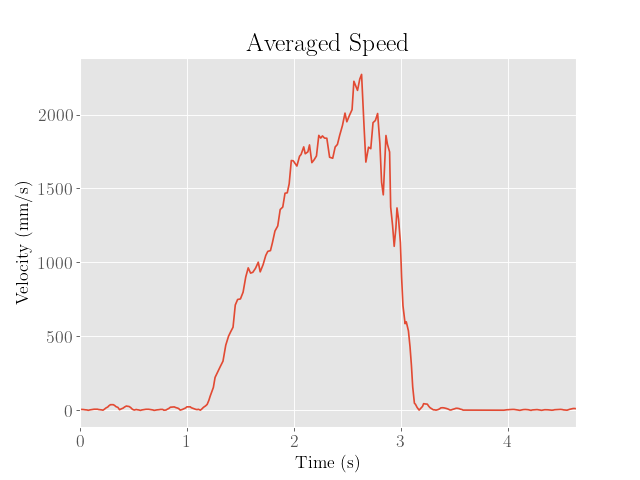
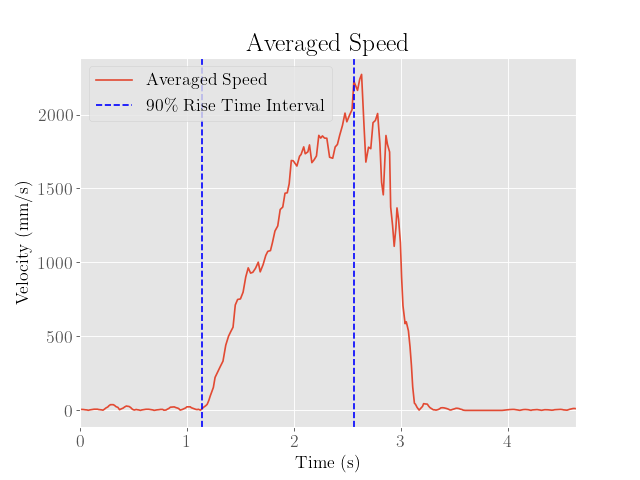
lab 7

diff --git a/docs/_pages/lab-7.md b/docs/_pages/lab-7.md
@@ -38,37 +38,235 @@ x \\
 \dot{x}
 \end{bmatrix}
 +
+u
 \begin{bmatrix}
-0
+0 \\
 \frac{1}{m}
 \end{bmatrix}
-u
 \end{align}$$
 
 Here, the drag $d$ and mass $m$ of the robot are not initially known, and must be measured via taking the step response of the system, which was done by sending a stream of constant PWM values to the motors.
 
 This was basically accomplished by setting the PWM values of the robot to the maximum values achieved using the position PID controller developed in Lab 6, which were around 126 after shifting and rescaling to account for the motor's PWM deadband:
 
-Youtube
+<iframe width="560" height="315" src="https://www.youtube.com/embed/9p3nJZ-9WFw" title="YouTube video player" frameborder="0" allow="accelerometer; autoplay; clipboard-write; encrypted-media; gyroscope; picture-in-picture; web-share" allowfullscreen></iframe>
 
-The ToF sensor data was then collected as the robot approached a wall, and the resulting sensor outputs, motor inputs were plotted. The velocity of the robot was also estimated by taking finite differences of the ToF data. 
+The ToF sensor data was then collected as the robot approached a wall, and the resulting sensor outputs, motor inputs were plotted. 
 
- ToF Data                                  | PWM Data                                  | Calculated Speed                              | Averaged Speed                                            |
-|:----------------------------------------:|:-----------------------------------------:|:---------------------------------------------:|:---------------------------------------------------------:|
-![Carpet ToF](/lab-7-assets/carpet_tof.png)|![Carpet PWM](/lab-7-assets/carpet_pwm.png)|![Carpet Speed](/lab-7-assets/carpet_speed.png)|![Carpet Average Speed](/lab-7-assets/carpet_avg_speed.png)|
+ ToF Data                                  | PWM Data                                  |
+|:----------------------------------------:|:-----------------------------------------:|
+![Carpet ToF](/lab-7-assets/carpet_tof.png)|![Carpet PWM](/lab-7-assets/carpet_pwm.png)|
 
+The speed of the robot was also estimated by taking finite differences of the ToF data. However, the ToF sensor data shows up as constant values over significant intervals of time, suggesting that the depth values are failing to update fast enough. 
+
+To ensure that the calculated finite differences do not vary too much, a moving average with a window size of 5 samples was taken on the ToF data in order to smooth the data out. Despite this, the calculated finite differences still demonstrated wild fluctuations, making it difficult to interpret the steady-state value.
+
+To fix this, a second moving average filter with a window size of 10 samples was taken on the finite differences, and the peak value was interpreted as the steady-state speed, which was approximately 2271 mm/s.
+
+This approach admittedly was a bit hacky and is most likely an underestimate of the actual steady state speeds, as the robot did not have enough time to appreciably plateau in speed. Furthermore, the introduction of moving average filters may have also smoothed out fast transitions in the depth data that may have been due to the actual movement of the robot, rather than noise in the sensor.
+
+ Calculated Speed                              | Averaged Speed                                            |
+:---------------------------------------------:|:---------------------------------------------------------:|
+![Carpet Speed](/lab-7-assets/carpet_speed.png)|![Carpet Average Speed](/lab-7-assets/carpet_avg_speed.png)|
+
+We then find the 90% rise time, which comes out to around 1.420 seconds, where the time interval chosen is indicated on the averaged speed graph.
+
+From here we note that in the steady state, the acceleration is zero. Hence,
+
+$$\begin{align}
+0 &= -\frac{d}{m}\dot{x} + \frac{u}{m} \\
+d &= \frac{u}{\dot{x}}
+\end{align}$$
+
+Using a normalized control input velocity $u = 1$ (corresponding to a PWM value of 126), we then find that the drag coefficient is approximately $d = 0.0004403$.
+
+To find the mass value, we note that
+
+$$\begin{align}
+\ddot{x} &= -\frac{d}{m}\dot{x} + \frac{u}{m} \\
+\dot{x} &= \frac{u}{d} - C\exp\left(-\frac{d}{m}t\right) 
+\end{align}$$
+
+Since the robot is initially motionless, we know that $C = \frac{u}{d}$ to ensure that $\dot{x}(t) = 0$, which is the steady state velocity. After normalizing the velocity to $v$ by dividing out the steady state velocity, this becomes 
+
+$$\begin{align}
+v &= 1 - \exp\left(-\frac{d}{m}t\right) \\
+-\frac{d}{m}t &= \ln(1-\dot{x}) \\
+m &= -\frac{dt_{0.9}}{\ln(1-0.9)}
+\end{align}$$
+
+Using the values of the 90% rise time and the drag coefficient calculatd earlier, we find that $m = 0.0002716$.
 
 Since the drag coefficient could depend quite heavily on the kind of surface the robot is traveling on, the process was repeated on a smoother floor:
 
-Youtube
+<iframe width="560" height="315" src="https://www.youtube.com/embed/K4nFhaZZuK4" title="YouTube video player" frameborder="0" allow="accelerometer; autoplay; clipboard-write; encrypted-media; gyroscope; picture-in-picture; web-share" allowfullscreen></iframe>
 
- ToF Data                                | PWM Data                                | Calculated Speed                            | Averaged Speed                                          |
-|:--------------------------------------:|:---------------------------------------:|:-------------------------------------------:|:-------------------------------------------------------:|
-![Floor ToF](/lab-7-assets/floor_tof.png)|![Floor PWM](/lab-7-assets/floor_pwm.png)|![Floor Speed](/lab-7-assets/floor_speed.png)|![Floor Average Speed](/lab-7-assets/floor_avg_speed.png)|
+ ToF Data                                | PWM Data                                | 
+|:--------------------------------------:|:---------------------------------------:|
+![Floor ToF](/lab-7-assets/floor_tof.png)|![Floor PWM](/lab-7-assets/floor_pwm.png)|
+
+We then calculate the steady-state speed using the same approach as before, which comes out to around 2049 mm/s:
+
+ Calculated Speed                            | Averaged Speed                                          |
+:-------------------------------------------:|:-------------------------------------------------------:|
+![Floor Speed](/lab-7-assets/floor_speed.png)|![Floor Average Speed](/lab-7-assets/floor_avg_speed.png)|
+
+We also obtain a 90% rise time of around 1.078 seconds. This corresponds to a drag coefficient of $d = 0.0004880$ and a mass value of $m = 0.0002285$. Although the friction is significantly reduced in this setting, the parameters do not seem to change very drastically.
 
 ## Setup
 
+After characterizing the necessary system parameters, we then obtain the following matrices to describe the state space equation:
+
+$$\begin{align}
+x_{t+1} &= Ax_t + Bu_t
+\end{align}$$
+
+Here, the state is defined as
+
+$$\begin{align}
+x_t &=
+\begin{bmatrix}
+p_t \\
+v_t
+\end{bmatrix}
+\end{align}$$
+
+where $p_t$ is the position of the robot and $v_t$ is the velocity.
+
+Using the differential equation characterized in the previous section and the finite difference relations
+
+$$\begin{align}
+p_{t+1} &= p_{t} + hv_{t} \\
+v_{t+1} &= v_{t} + ha_{t} 
+\end{align}$$
+
+We have
+
+$$\begin{align}
+x_{t+1} &= A_dx_{t} + B_du_{t}
+\end{align}$$
+
+where
+
+$$\begin{align}
+A_d &= I + Ah \\
+A_d &=
+\begin{bmatrix}
+1 & h \\
+0 & 1-2.136h
+\end{bmatrix} \\ 
+B_d &= Bh \\
+B_d &= 
+\begin{bmatrix}
+0 \\
+4376h
+\end{bmatrix}
+\end{align}$$
+
+In addition to the system dynamics, we specify an addition measurement matrix $C$ to define the relationship between the ToF data and the depth measurements:
+
+$$\begin{align}
+C &=
+\begin{bmatrix}
+-1 & 0
+\end{bmatrix}
+\end{align}$$
+
+To ensure that the relationship is purely linear, we define the origin of the position as the wall, which would make the position equal to the negative distance measurements to the wall (since the positive direction is taken as towards the wall).
+
+Finally, the sensor noise and system disturbance covariance matrices need to be specified, which need to be tuned to enable the filter to perform accurately. A reasonable estimate would be to assume a sampling period of 20 milliseconds, and a standard deviation of position and velocity of 10 mm and 10 mm/s, respectively, which was taken from lecture.
+
+This yields the following process noise covariance matrix:
+
+$$\begin{align}
+\Sigma_u &=
+\begin{bmatrix}
+(10^2)(0.020) & 0 \\
+0 & (10^2)(0.020)
+\end{bmatrix} \\
+\Sigma_u &= 
+\begin{bmatrix}
+2 & 0 \\
+0 & 2 
+\end{bmatrix} 
+\end{align}$$
+
+Furthermore, we also assume a standard deviation of 20 mm for the sensor noise ($\Sigma_z = 20^2$), which agrees with the ToF sensor [datasheet](https://cdn.sparkfun.com/assets/8/9/9/a/6/VL53L0X_DS.pdf).
+
 ## Testing
+
+We then attempt to implement the Kalman filter, which is given by the following set of recursive equations that characterize the prediction step, where an intermediate state is predicted based off of knowledge of the system dynamics, control input, and process noise::
+
+$$\begin{align}
+\overline{\mu}_{t} &= A\mu_{t-1} + Bu_t \\
+\overline{\Sigma}_{t} &= A\Sigma_{t-1}A^T + \Sigma_u
+\end{align}$$
+
+The filter also includes an additional set of equations that characterize the update step:
+
+$$\begin{align}
+K_{KF} &= \overline{\Sigma}_{t}C^T(C\overline{\Sigma}_{t}C^T+\Sigma_z)^{-1} \\
+\mu_{t} &= \overline{\mu}_{t} + K_{KF}(z_{t}-C\overline{\mu}_t) \\
+\Sigma_{t} &= (I - K_{KF}C)\overline{\Sigma}_{t}
+\end{align}$$
+
+Before implementing the Kalman filter on the Artemis board, we first test the filter in Python:
+
+```python
+# Parameters
+n = 2
+h = 0.02
+d = 0.0004403
+m = 0.0002716
+sigma_1 = np.sqrt(10**2/0.020)
+sigma_2 = np.sqrt(10**2/0.020)
+sigma_3 = 20
+
+# State
+x = np.array([[-tof[0]],[0]])
+sigma = np.array([[sigma_3**2, 0],[0, sigma_3**2]])
+outputs = np.zeros([2,len(tof)])
+outputs[:,0] = x.flatten()
+
+# Matrices
+A = np.array([[0, 1],[0, -d/m]])
+B = np.array([[0],[1/m]])
+C = np.array([[-1,0]])
+sigma_u = np.array([[sigma_1**2, 0],[0, sigma_2**2]])
+sigma_z = sigma_3**2
+Ad = np.eye(n) + h * A 
+Bd = h * B
+
+# Kalman Filter
+for i in range(1,len(tof)):
+    x,sigma = kf(x, sigma, pwm[i], tof[i])
+    outputs[:,i] = x.flatten()
+```
+
+To accomplish this, we call on a provided helper function kf(), which computes the updates of the mean and covariance of the current belief after one iteration of the filter:
+
+```python
+def kf(mu,sigma,u,y):  
+    mu_p = Ad.dot(mu) + Bd.dot(u) 
+    sigma_p = Ad.dot(sigma.dot(Ad.transpose())) + sigma_u
+    
+    sigma_m = C.dot(sigma_p.dot(C.transpose())) + sigma_z
+    kkf_gain = sigma_p.dot(C.transpose().dot(np.linalg.inv(sigma_m)))
+
+    y_m = y-C.dot(mu_p)
+    mu = mu_p + kkf_gain.dot(y_m)    
+    sigma=(np.eye(n)-kkf_gain.dot(C)).dot(sigma_p)
+
+    return mu,sigma
+```
+
+This was then tested on data from a previous iteration of the PID controller with overshoot:
+
+![KF Overshoot](/lab-7-assets/kf.png)
+
+We then test this once more on the optimized PID controller developed in Lab 6 with minimal overshoot:
+
+![KF Optimal](/lab-7-assets/kf_optimal.png)
 
 ## Implementation
 
